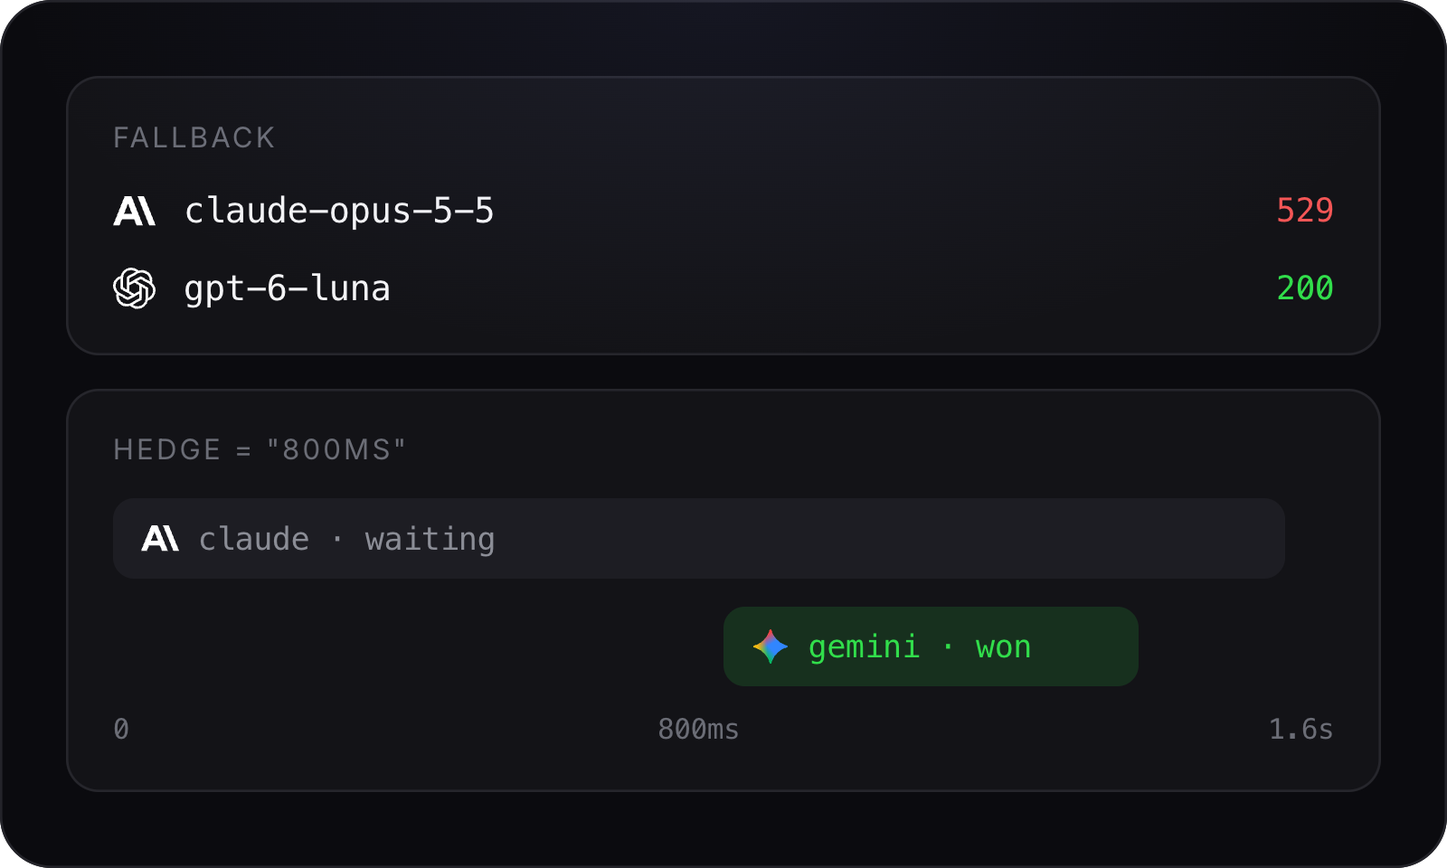
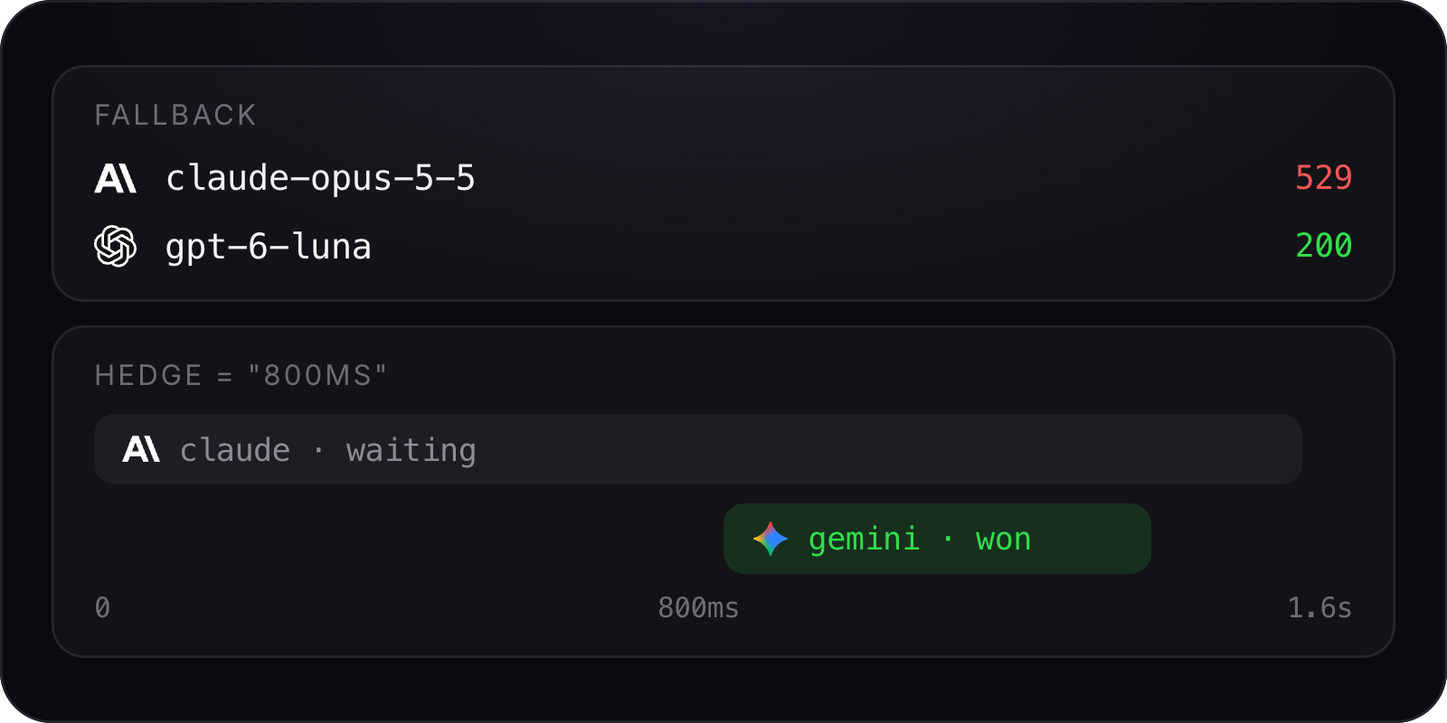
README: flatter feature images, shorter rows (draft)

diff --git a/docs/assets/features-src/multimodal.html b/docs/assets/features-src/multimodal.html
@@ -1,8 +1,8 @@
 <!doctype html><html><head><meta charset="utf-8"><style>
 * { box-sizing: border-box; margin: 0; }
-html { width: 800px; height: 480px; } body { width: 615px; height: 369px; overflow: hidden; background: transparent; }
+html { width: 800px; height: 400px; } body { width: 615px; height: 308px; overflow: hidden; background: transparent; }
 body { zoom: 1.3; color: #f4f4f6; -webkit-font-smoothing: antialiased; font: 15px/1.4 Inter, -apple-system, "SF Pro Text", "Segoe UI", Helvetica, sans-serif; }
-.panel { position: absolute; inset: 0; border-radius: 22px; background: #0b0b0f; box-shadow: inset 0 0 0 1px #24242a; overflow: hidden; padding: 28px; display: flex; flex-direction: column; justify-content: center; }
+.panel { position: absolute; inset: 0; border-radius: 22px; background: #0b0b0f; box-shadow: inset 0 0 0 1px #24242a; overflow: hidden; padding: 18px 22px; display: flex; flex-direction: column; justify-content: center; }
 .panel::before { content: ""; position: absolute; inset: 0; background: radial-gradient(ellipse 70% 60% at 50% 0%, rgba(143,156,255,.08), transparent 70%); pointer-events: none; }
 .mono { font-family: "JetBrains Mono", ui-monospace, "SF Mono", Menlo, monospace; letter-spacing: -.2px; }
 .lab { font-size: 12px; letter-spacing: .1em; text-transform: uppercase; color: #6b6d76; }
@@ -10,16 +10,16 @@ body { zoom: 1.3; color: #f4f4f6; -webkit-font-smoothing: antialiased; font: 15p
 .row { display: flex; align-items: center; gap: 10px; }
 .ok { color: #31de4b; } .bad { color: #f55656; } .dim { color: #6b6d76; } .acc { color: #8f9cff; } .mid { color: #b1b3bc; }
 
-.grid { display: grid; grid-template-columns: 1fr 1fr; grid-template-rows: minmax(0, 1fr) minmax(0, 1fr); gap: 12px; flex: 1; min-height: 0; }
-.t { padding: 16px; position: relative; overflow: hidden; }
-.w { display: flex; align-items: center; gap: 3px; height: 60px; margin-top: 14px; } .w i { width: 4px; border-radius: 2px; background: #e6e7ec; }
+.grid { display: grid; grid-template-columns: 1fr 1fr; grid-template-rows: minmax(0, 1fr) minmax(0, 1fr); gap: 10px; flex: 1; min-height: 0; }
+.t { padding: 12px 14px; position: relative; overflow: hidden; }
+.w { display: flex; align-items: center; gap: 3px; height: 46px; margin-top: 8px; } .w i { width: 4px; border-radius: 2px; background: #e6e7ec; }
 .ph { padding: 0; } .ph img.p { width: 100%; height: 100%; object-fit: cover; display: block; }
 .tag { position: absolute; left: 12px; bottom: 12px; padding: 5px 11px; border-radius: 999px; background: rgba(0,0,0,.6); font-size: 13px; display: flex; gap: 8px; align-items: center; }
 .frames { position: absolute; inset: 0; display: grid; grid-template-columns: repeat(3, 1fr); gap: 3px; }
 .frames img { width: 100%; height: 100%; object-fit: cover; }
 .play { position: absolute; left: 50%; top: 50%; width: 46px; height: 46px; margin: -23px 0 0 -23px; border-radius: 50%; background: rgba(0,0,0,.55); }
 .play::before { content: ""; position: absolute; left: 17px; top: 13px; border-left: 16px solid #fff; border-top: 10px solid transparent; border-bottom: 10px solid transparent; }
-.vec { font-size: 15px; color: #b1b3bc; margin-top: 16px; line-height: 1.7; }
+.vec { font-size: 14px; color: #b1b3bc; margin-top: 8px; line-height: 1.6; }
 
 </style></head><body><div class="panel"><div class="grid">
 <div class="box t"><div class="row lab"><img src="../vendors/openai-dark.svg" style="width:14px;height:14px;flex:none"> realtime ⇄ <img src="../vendors/gemini.svg" style="width:14px;height:14px;flex:none"> live</div><div class="w"><i style="height:6px"></i><i style="height:21px"></i><i style="height:21px"></i><i style="height:26px"></i><i style="height:41px"></i><i style="height:19px"></i><i style="height:23px"></i><i style="height:6px"></i><i style="height:24px"></i><i style="height:17px"></i><i style="height:31px"></i><i style="height:37px"></i><i style="height:24px"></i><i style="height:12px"></i><i style="height:6px"></i><i style="height:13px"></i><i style="height:27px"></i><i style="height:38px"></i><i style="height:31px"></i><i style="height:20px"></i><i style="height:20px"></i><i style="height:7px"></i><i style="height:19px"></i><i style="height:37px"></i><i style="height:43px"></i><i style="height:35px"></i><i style="height:28px"></i><i style="height:19px"></i><i style="height:7px"></i><i style="height:24px"></i><i style="height:34px"></i><i style="height:29px"></i><i style="height:21px"></i><i style="height:29px"></i><i style="height:17px"></i><i style="height:7px"></i><i style="height:23px"></i><i style="height:37px"></i><i style="height:22px"></i><i style="height:33px"></i><i style="height:29px"></i><i style="height:16px"></i><i style="height:7px"></i><i style="height:19px"></i></div></div>

diff --git a/docs/assets/features-src/never-down.html b/docs/assets/features-src/never-down.html
@@ -1,8 +1,8 @@
 <!doctype html><html><head><meta charset="utf-8"><style>
 * { box-sizing: border-box; margin: 0; }
-html { width: 800px; height: 480px; } body { width: 615px; height: 369px; overflow: hidden; background: transparent; }
+html { width: 800px; height: 400px; } body { width: 615px; height: 308px; overflow: hidden; background: transparent; }
 body { zoom: 1.3; color: #f4f4f6; -webkit-font-smoothing: antialiased; font: 15px/1.4 Inter, -apple-system, "SF Pro Text", "Segoe UI", Helvetica, sans-serif; }
-.panel { position: absolute; inset: 0; border-radius: 22px; background: #0b0b0f; box-shadow: inset 0 0 0 1px #24242a; overflow: hidden; padding: 28px; display: flex; flex-direction: column; justify-content: center; }
+.panel { position: absolute; inset: 0; border-radius: 22px; background: #0b0b0f; box-shadow: inset 0 0 0 1px #24242a; overflow: hidden; padding: 18px 22px; display: flex; flex-direction: column; justify-content: center; }
 .panel::before { content: ""; position: absolute; inset: 0; background: radial-gradient(ellipse 70% 60% at 50% 0%, rgba(143,156,255,.08), transparent 70%); pointer-events: none; }
 .mono { font-family: "JetBrains Mono", ui-monospace, "SF Mono", Menlo, monospace; letter-spacing: -.2px; }
 .lab { font-size: 12px; letter-spacing: .1em; text-transform: uppercase; color: #6b6d76; }
@@ -10,18 +10,18 @@ body { zoom: 1.3; color: #f4f4f6; -webkit-font-smoothing: antialiased; font: 15p
 .row { display: flex; align-items: center; gap: 10px; }
 .ok { color: #31de4b; } .bad { color: #f55656; } .dim { color: #6b6d76; } .acc { color: #8f9cff; } .mid { color: #b1b3bc; }
 
-.sec { padding: 18px 20px; }
-.ln { display: flex; align-items: center; gap: 12px; font-size: 15px; margin-top: 12px; }
+.sec { padding: 13px 18px; }
+.ln { display: flex; align-items: center; gap: 12px; font-size: 15px; margin-top: 8px; }
 .ln .code { margin-left: auto; font-size: 14px; }
-.track { position: relative; height: 34px; margin-top: 12px; }
-.bar { position: absolute; height: 34px; border-radius: 9px; display: flex; align-items: center; gap: 8px; padding: 0 12px; font-size: 13.5px; }
-.axis { display: flex; justify-content: space-between; margin-top: 10px; font-size: 12px; color: #6b6d76; }
+.track { position: relative; height: 30px; margin-top: 8px; }
+.bar { position: absolute; height: 30px; border-radius: 9px; display: flex; align-items: center; gap: 8px; padding: 0 12px; font-size: 13.5px; }
+.axis { display: flex; justify-content: space-between; margin-top: 6px; font-size: 12px; color: #6b6d76; }
 
 </style></head><body><div class="panel">
 <div class="box sec"><div class="lab">fallback</div>
 <div class="ln mono"><img src="../vendors/anthropic-dark.svg" style="width:18px;height:18px;flex:none"> claude-opus-5-5<span class="code bad">529</span></div>
 <div class="ln mono"><img src="../vendors/openai-dark.svg" style="width:18px;height:18px;flex:none"> gpt-6-luna<span class="code ok">200</span></div></div>
-<div class="box sec" style="margin-top:14px"><div class="lab">hedge = "800ms"</div>
+<div class="box sec" style="margin-top:10px"><div class="lab">hedge = "800ms"</div>
 <div class="track"><div class="bar mono" style="left:0;width:96%;background:#1d1d23;color:#8b8d96"><img src="../vendors/anthropic-dark.svg" style="width:16px;height:16px;flex:none"> claude · waiting</div></div>
 <div class="track"><div class="bar mono" style="left:50%;width:34%;background:rgba(49,222,75,.14);color:#31de4b"><img src="../vendors/gemini.svg" style="width:16px;height:16px;flex:none"> gemini · won</div></div>
 <div class="axis mono"><span>0</span><span>800ms</span><span>1.6s</span></div></div>

diff --git a/docs/assets/features-src/observe.html b/docs/assets/features-src/observe.html
@@ -1,8 +1,8 @@
 <!doctype html><html><head><meta charset="utf-8"><style>
 * { box-sizing: border-box; margin: 0; }
-html { width: 800px; height: 480px; } body { width: 615px; height: 369px; overflow: hidden; background: transparent; }
+html { width: 800px; height: 400px; } body { width: 615px; height: 308px; overflow: hidden; background: transparent; }
 body { zoom: 1.3; color: #f4f4f6; -webkit-font-smoothing: antialiased; font: 15px/1.4 Inter, -apple-system, "SF Pro Text", "Segoe UI", Helvetica, sans-serif; }
-.panel { position: absolute; inset: 0; border-radius: 22px; background: #0b0b0f; box-shadow: inset 0 0 0 1px #24242a; overflow: hidden; padding: 28px; display: flex; flex-direction: column; justify-content: center; }
+.panel { position: absolute; inset: 0; border-radius: 22px; background: #0b0b0f; box-shadow: inset 0 0 0 1px #24242a; overflow: hidden; padding: 18px 22px; display: flex; flex-direction: column; justify-content: center; }
 .panel::before { content: ""; position: absolute; inset: 0; background: radial-gradient(ellipse 70% 60% at 50% 0%, rgba(143,156,255,.08), transparent 70%); pointer-events: none; }
 .mono { font-family: "JetBrains Mono", ui-monospace, "SF Mono", Menlo, monospace; letter-spacing: -.2px; }
 .lab { font-size: 12px; letter-spacing: .1em; text-transform: uppercase; color: #6b6d76; }
@@ -10,13 +10,13 @@ body { zoom: 1.3; color: #f4f4f6; -webkit-font-smoothing: antialiased; font: 15p
 .row { display: flex; align-items: center; gap: 10px; }
 .ok { color: #31de4b; } .bad { color: #f55656; } .dim { color: #6b6d76; } .acc { color: #8f9cff; } .mid { color: #b1b3bc; }
 
-.log { padding: 14px 18px; font-size: 13.5px; }
-.lr { display: grid; grid-template-columns: 0 40px 1fr 62px 62px; gap: 10px; align-items: center; padding: 7px 0; border-bottom: 1px solid #1e1e23; }
+.log { padding: 8px 16px; font-size: 13.5px; }
+.lr { display: grid; grid-template-columns: 0 40px 1fr 62px 62px; gap: 10px; align-items: center; padding: 5px 0; border-bottom: 1px solid #1e1e23; }
 .lr:last-child { border: 0; }
 .lr .m { display: flex; align-items: center; gap: 8px; }
 .lr .r { text-align: right; }
-.tr { margin-top: 14px; padding: 16px 18px; }
-.sp { display: grid; grid-template-columns: 130px 1fr; gap: 12px; align-items: center; font-size: 13px; margin-top: 8px; }
+.tr { margin-top: 10px; padding: 11px 16px; }
+.sp { display: grid; grid-template-columns: 130px 1fr; gap: 12px; align-items: center; font-size: 13px; margin-top: 5px; }
 .sp i { display: block; height: 10px; border-radius: 5px; background: #8f9cff; }
 
 </style></head><body><div class="panel">

diff --git a/docs/assets/features-src/tools.html b/docs/assets/features-src/tools.html
@@ -1,8 +1,8 @@
 <!doctype html><html><head><meta charset="utf-8"><style>
 * { box-sizing: border-box; margin: 0; }
-html { width: 800px; height: 480px; } body { width: 615px; height: 369px; overflow: hidden; background: transparent; }
+html { width: 800px; height: 400px; } body { width: 615px; height: 308px; overflow: hidden; background: transparent; }
 body { zoom: 1.3; color: #f4f4f6; -webkit-font-smoothing: antialiased; font: 15px/1.4 Inter, -apple-system, "SF Pro Text", "Segoe UI", Helvetica, sans-serif; }
-.panel { position: absolute; inset: 0; border-radius: 22px; background: #0b0b0f; box-shadow: inset 0 0 0 1px #24242a; overflow: hidden; padding: 28px; display: flex; flex-direction: column; justify-content: center; }
+.panel { position: absolute; inset: 0; border-radius: 22px; background: #0b0b0f; box-shadow: inset 0 0 0 1px #24242a; overflow: hidden; padding: 18px 22px; display: flex; flex-direction: column; justify-content: center; }
 .panel::before { content: ""; position: absolute; inset: 0; background: radial-gradient(ellipse 70% 60% at 50% 0%, rgba(143,156,255,.08), transparent 70%); pointer-events: none; }
 .mono { font-family: "JetBrains Mono", ui-monospace, "SF Mono", Menlo, monospace; letter-spacing: -.2px; }
 .lab { font-size: 12px; letter-spacing: .1em; text-transform: uppercase; color: #6b6d76; }
@@ -10,10 +10,10 @@ body { zoom: 1.3; color: #f4f4f6; -webkit-font-smoothing: antialiased; font: 15p
 .row { display: flex; align-items: center; gap: 10px; }
 .ok { color: #31de4b; } .bad { color: #f55656; } .dim { color: #6b6d76; } .acc { color: #8f9cff; } .mid { color: #b1b3bc; }
 
-.msg { padding: 14px 18px; font-size: 16px; max-width: 78%; }
+.msg { padding: 11px 16px; font-size: 16px; max-width: 78%; }
 .u { margin-left: auto; background: #24242b; }
-.steps { margin: 14px 0; display: flex; flex-direction: column; gap: 9px; }
-.st { padding: 11px 14px; font-size: 14.5px; display: flex; align-items: center; gap: 10px; }
+.steps { margin: 10px 0; display: flex; flex-direction: column; gap: 9px; }
+.st { padding: 9px 14px; font-size: 14.5px; display: flex; align-items: center; gap: 10px; }
 .st .n { width: 22px; height: 22px; border-radius: 50%; background: #24242b; display: grid; place-items: center; font-size: 12px; color: #b1b3bc; }
 .st .ok { margin-left: auto; font-size: 13px; }
 

diff --git a/docs/assets/features-src/any-sdk.html b/docs/assets/features-src/any-sdk.html
@@ -1,8 +1,8 @@
 <!doctype html><html><head><meta charset="utf-8"><style>
 * { box-sizing: border-box; margin: 0; }
-html { width: 800px; height: 480px; } body { width: 615px; height: 369px; overflow: hidden; background: transparent; }
+html { width: 800px; height: 400px; } body { width: 615px; height: 308px; overflow: hidden; background: transparent; }
 body { zoom: 1.3; color: #f4f4f6; -webkit-font-smoothing: antialiased; font: 15px/1.4 Inter, -apple-system, "SF Pro Text", "Segoe UI", Helvetica, sans-serif; }
-.panel { position: absolute; inset: 0; border-radius: 22px; background: #0b0b0f; box-shadow: inset 0 0 0 1px #24242a; overflow: hidden; padding: 28px; display: flex; flex-direction: column; justify-content: center; }
+.panel { position: absolute; inset: 0; border-radius: 22px; background: #0b0b0f; box-shadow: inset 0 0 0 1px #24242a; overflow: hidden; padding: 18px 22px; display: flex; flex-direction: column; justify-content: center; }
 .panel::before { content: ""; position: absolute; inset: 0; background: radial-gradient(ellipse 70% 60% at 50% 0%, rgba(143,156,255,.08), transparent 70%); pointer-events: none; }
 .mono { font-family: "JetBrains Mono", ui-monospace, "SF Mono", Menlo, monospace; letter-spacing: -.2px; }
 .lab { font-size: 12px; letter-spacing: .1em; text-transform: uppercase; color: #6b6d76; }
@@ -10,11 +10,11 @@ body { zoom: 1.3; color: #f4f4f6; -webkit-font-smoothing: antialiased; font: 15p
 .row { display: flex; align-items: center; gap: 10px; }
 .ok { color: #31de4b; } .bad { color: #f55656; } .dim { color: #6b6d76; } .acc { color: #8f9cff; } .mid { color: #b1b3bc; }
 
-.code { padding: 18px 20px; font-size: 16px; line-height: 1.75; }
+.code { padding: 14px 18px; font-size: 16px; line-height: 1.65; }
 .k { color: #8f9cff; } .s { color: #e8c38a; }
-.flow { margin-top: 18px; display: flex; align-items: center; gap: 12px; }
+.flow { margin-top: 12px; display: flex; align-items: center; gap: 12px; }
 .chip { padding: 9px 14px; border-radius: 999px; font-size: 14px; }
-.reply { margin-top: 18px; padding: 16px 18px; font-size: 16px; }
+.reply { margin-top: 12px; padding: 12px 16px; font-size: 16px; }
 
 </style></head><body><div class="panel">
 <div class="box code mono"><div class="lab" style="margin-bottom:10px">Anthropic SDK</div>

diff --git a/docs/assets/features-src/plugins.html b/docs/assets/features-src/plugins.html
@@ -1,8 +1,8 @@
 <!doctype html><html><head><meta charset="utf-8"><style>
 * { box-sizing: border-box; margin: 0; }
-html { width: 800px; height: 480px; } body { width: 615px; height: 369px; overflow: hidden; background: transparent; }
+html { width: 800px; height: 400px; } body { width: 615px; height: 308px; overflow: hidden; background: transparent; }
 body { zoom: 1.3; color: #f4f4f6; -webkit-font-smoothing: antialiased; font: 15px/1.4 Inter, -apple-system, "SF Pro Text", "Segoe UI", Helvetica, sans-serif; }
-.panel { position: absolute; inset: 0; border-radius: 22px; background: #0b0b0f; box-shadow: inset 0 0 0 1px #24242a; overflow: hidden; padding: 28px; display: flex; flex-direction: column; justify-content: center; }
+.panel { position: absolute; inset: 0; border-radius: 22px; background: #0b0b0f; box-shadow: inset 0 0 0 1px #24242a; overflow: hidden; padding: 18px 22px; display: flex; flex-direction: column; justify-content: center; }
 .panel::before { content: ""; position: absolute; inset: 0; background: radial-gradient(ellipse 70% 60% at 50% 0%, rgba(143,156,255,.08), transparent 70%); pointer-events: none; }
 .mono { font-family: "JetBrains Mono", ui-monospace, "SF Mono", Menlo, monospace; letter-spacing: -.2px; }
 .lab { font-size: 12px; letter-spacing: .1em; text-transform: uppercase; color: #6b6d76; }
@@ -12,8 +12,8 @@ body { zoom: 1.3; color: #f4f4f6; -webkit-font-smoothing: antialiased; font: 15p
 
 .code { padding: 18px 20px; font-size: 15px; line-height: 1.7; white-space: pre; }
 .k { color: #8f9cff; } .f { color: #e8c38a; } .c { color: #6b6d76; }
-.io { margin-top: 14px; display: grid; grid-template-columns: 1fr auto 1fr; gap: 12px; align-items: center; }
-.io .box { padding: 14px 16px; font-size: 14.5px; }
+.io { margin-top: 10px; display: grid; grid-template-columns: 1fr auto 1fr; gap: 12px; align-items: center; }
+.io .box { padding: 10px 14px; font-size: 14.5px; }
 .io .lab { font-size: 11px; margin-bottom: 8px; }
 
 </style></head><body><div class="panel">

diff --git a/docs/assets/features-src/make.py b/docs/assets/features-src/make.py
@@ -10,9 +10,9 @@ def mk(m, px=18):
 
 HEAD = """<!doctype html><html><head><meta charset="utf-8"><style>
 * { box-sizing: border-box; margin: 0; }
-html { width: 800px; height: 480px; } body { width: 615px; height: 369px; overflow: hidden; background: transparent; }
+html { width: 800px; height: 400px; } body { width: 615px; height: 308px; overflow: hidden; background: transparent; }
 body { zoom: 1.3; color: #f4f4f6; -webkit-font-smoothing: antialiased; font: 15px/1.4 Inter, -apple-system, "SF Pro Text", "Segoe UI", Helvetica, sans-serif; }
-.panel { position: absolute; inset: 0; border-radius: 22px; background: #0b0b0f; box-shadow: inset 0 0 0 1px #24242a; overflow: hidden; padding: 28px; display: flex; flex-direction: column; justify-content: center; }
+.panel { position: absolute; inset: 0; border-radius: 22px; background: #0b0b0f; box-shadow: inset 0 0 0 1px #24242a; overflow: hidden; padding: 18px 22px; display: flex; flex-direction: column; justify-content: center; }
 .panel::before { content: ""; position: absolute; inset: 0; background: radial-gradient(ellipse 70% 60% at 50% 0%, rgba(143,156,255,.08), transparent 70%); pointer-events: none; }
 .mono { font-family: "JetBrains Mono", ui-monospace, "SF Mono", Menlo, monospace; letter-spacing: -.2px; }
 .lab { font-size: 12px; letter-spacing: .1em; text-transform: uppercase; color: #6b6d76; }
@@ -25,11 +25,11 @@ body { zoom: 1.3; color: #f4f4f6; -webkit-font-smoothing: antialiased; font: 15p
 CARDS = {}
 
 CARDS['any-sdk'] = ("""
-.code { padding: 18px 20px; font-size: 16px; line-height: 1.75; }
+.code { padding: 14px 18px; font-size: 16px; line-height: 1.65; }
 .k { color: #8f9cff; } .s { color: #e8c38a; }
-.flow { margin-top: 18px; display: flex; align-items: center; gap: 12px; }
+.flow { margin-top: 12px; display: flex; align-items: center; gap: 12px; }
 .chip { padding: 9px 14px; border-radius: 999px; font-size: 14px; }
-.reply { margin-top: 18px; padding: 16px 18px; font-size: 16px; }
+.reply { margin-top: 12px; padding: 12px 16px; font-size: 16px; }
 """, f"""
 <div class="box code mono"><div class="lab" style="margin-bottom:10px">Anthropic SDK</div>
 <span class="k">client</span>.messages.create(<br>
@@ -45,16 +45,16 @@ def wave(n, h=46):
     random.seed(n * 7 + h)
     return ''.join(f'<i style="height:{6 + abs(math.sin(i * .45)) * (.35 + random.random() * .65) * h:.0f}px"></i>' for i in range(n))
 CARDS['multimodal'] = ("""
-.grid { display: grid; grid-template-columns: 1fr 1fr; grid-template-rows: minmax(0, 1fr) minmax(0, 1fr); gap: 12px; flex: 1; min-height: 0; }
-.t { padding: 16px; position: relative; overflow: hidden; }
-.w { display: flex; align-items: center; gap: 3px; height: 60px; margin-top: 14px; } .w i { width: 4px; border-radius: 2px; background: #e6e7ec; }
+.grid { display: grid; grid-template-columns: 1fr 1fr; grid-template-rows: minmax(0, 1fr) minmax(0, 1fr); gap: 10px; flex: 1; min-height: 0; }
+.t { padding: 12px 14px; position: relative; overflow: hidden; }
+.w { display: flex; align-items: center; gap: 3px; height: 46px; margin-top: 8px; } .w i { width: 4px; border-radius: 2px; background: #e6e7ec; }
 .ph { padding: 0; } .ph img.p { width: 100%; height: 100%; object-fit: cover; display: block; }
 .tag { position: absolute; left: 12px; bottom: 12px; padding: 5px 11px; border-radius: 999px; background: rgba(0,0,0,.6); font-size: 13px; display: flex; gap: 8px; align-items: center; }
 .frames { position: absolute; inset: 0; display: grid; grid-template-columns: repeat(3, 1fr); gap: 3px; }
 .frames img { width: 100%; height: 100%; object-fit: cover; }
 .play { position: absolute; left: 50%; top: 50%; width: 46px; height: 46px; margin: -23px 0 0 -23px; border-radius: 50%; background: rgba(0,0,0,.55); }
 .play::before { content: ""; position: absolute; left: 17px; top: 13px; border-left: 16px solid #fff; border-top: 10px solid transparent; border-bottom: 10px solid transparent; }
-.vec { font-size: 15px; color: #b1b3bc; margin-top: 16px; line-height: 1.7; }
+.vec { font-size: 14px; color: #b1b3bc; margin-top: 8px; line-height: 1.6; }
 """, f"""<div class="grid">
 <div class="box t"><div class="row lab">{mk('openai',14)} realtime ⇄ {mk('google',14)} live</div><div class="w">{wave(44, 40)}</div></div>
 <div class="box t ph"><img class="p" src="../hero-src/img/p6.jpg"><span class="tag">{mk('google',14)} image</span></div>
@@ -63,10 +63,10 @@ CARDS['multimodal'] = ("""
 </div>""")
 
 CARDS['tools'] = ("""
-.msg { padding: 14px 18px; font-size: 16px; max-width: 78%; }
+.msg { padding: 11px 16px; font-size: 16px; max-width: 78%; }
 .u { margin-left: auto; background: #24242b; }
-.steps { margin: 14px 0; display: flex; flex-direction: column; gap: 9px; }
-.st { padding: 11px 14px; font-size: 14.5px; display: flex; align-items: center; gap: 10px; }
+.steps { margin: 10px 0; display: flex; flex-direction: column; gap: 9px; }
+.st { padding: 9px 14px; font-size: 14.5px; display: flex; align-items: center; gap: 10px; }
 .st .n { width: 22px; height: 22px; border-radius: 50%; background: #24242b; display: grid; place-items: center; font-size: 12px; color: #b1b3bc; }
 .st .ok { margin-left: auto; font-size: 13px; }
 """, f"""
@@ -79,17 +79,17 @@ CARDS['tools'] = ("""
 """)
 
 CARDS['never-down'] = ("""
-.sec { padding: 18px 20px; }
-.ln { display: flex; align-items: center; gap: 12px; font-size: 15px; margin-top: 12px; }
+.sec { padding: 13px 18px; }
+.ln { display: flex; align-items: center; gap: 12px; font-size: 15px; margin-top: 8px; }
 .ln .code { margin-left: auto; font-size: 14px; }
-.track { position: relative; height: 34px; margin-top: 12px; }
-.bar { position: absolute; height: 34px; border-radius: 9px; display: flex; align-items: center; gap: 8px; padding: 0 12px; font-size: 13.5px; }
-.axis { display: flex; justify-content: space-between; margin-top: 10px; font-size: 12px; color: #6b6d76; }
+.track { position: relative; height: 30px; margin-top: 8px; }
+.bar { position: absolute; height: 30px; border-radius: 9px; display: flex; align-items: center; gap: 8px; padding: 0 12px; font-size: 13.5px; }
+.axis { display: flex; justify-content: space-between; margin-top: 6px; font-size: 12px; color: #6b6d76; }
 """, f"""
 <div class="box sec"><div class="lab">fallback</div>
 <div class="ln mono">{mk('anthropic',18)} claude-opus-5-5<span class="code bad">529</span></div>
 <div class="ln mono">{mk('openai',18)} gpt-6-luna<span class="code ok">200</span></div></div>
-<div class="box sec" style="margin-top:14px"><div class="lab">hedge = "800ms"</div>
+<div class="box sec" style="margin-top:10px"><div class="lab">hedge = "800ms"</div>
 <div class="track"><div class="bar mono" style="left:0;width:96%;background:#1d1d23;color:#8b8d96">{mk('anthropic',16)} claude · waiting</div></div>
 <div class="track"><div class="bar mono" style="left:50%;width:34%;background:rgba(49,222,75,.14);color:#31de4b">{mk('google',16)} gemini · won</div></div>
 <div class="axis mono"><span>0</span><span>800ms</span><span>1.6s</span></div></div>
@@ -98,8 +98,8 @@ CARDS['never-down'] = ("""
 CARDS['plugins'] = ("""
 .code { padding: 18px 20px; font-size: 15px; line-height: 1.7; white-space: pre; }
 .k { color: #8f9cff; } .f { color: #e8c38a; } .c { color: #6b6d76; }
-.io { margin-top: 14px; display: grid; grid-template-columns: 1fr auto 1fr; gap: 12px; align-items: center; }
-.io .box { padding: 14px 16px; font-size: 14.5px; }
+.io { margin-top: 10px; display: grid; grid-template-columns: 1fr auto 1fr; gap: 12px; align-items: center; }
+.io .box { padding: 10px 14px; font-size: 14.5px; }
 .io .lab { font-size: 11px; margin-bottom: 8px; }
 """, """
 <div class="box code mono"><span class="c">// examples/recipes/pii.rs</span>
@@ -110,13 +110,13 @@ CARDS['plugins'] = ("""
 """)
 
 CARDS['observe'] = ("""
-.log { padding: 14px 18px; font-size: 13.5px; }
-.lr { display: grid; grid-template-columns: 0 40px 1fr 62px 62px; gap: 10px; align-items: center; padding: 7px 0; border-bottom: 1px solid #1e1e23; }
+.log { padding: 8px 16px; font-size: 13.5px; }
+.lr { display: grid; grid-template-columns: 0 40px 1fr 62px 62px; gap: 10px; align-items: center; padding: 5px 0; border-bottom: 1px solid #1e1e23; }
 .lr:last-child { border: 0; }
 .lr .m { display: flex; align-items: center; gap: 8px; }
 .lr .r { text-align: right; }
-.tr { margin-top: 14px; padding: 16px 18px; }
-.sp { display: grid; grid-template-columns: 130px 1fr; gap: 12px; align-items: center; font-size: 13px; margin-top: 8px; }
+.tr { margin-top: 10px; padding: 11px 16px; }
+.sp { display: grid; grid-template-columns: 130px 1fr; gap: 12px; align-items: center; font-size: 13px; margin-top: 5px; }
 .sp i { display: block; height: 10px; border-radius: 5px; background: #8f9cff; }
 """, f"""
 <div class="box log mono">
